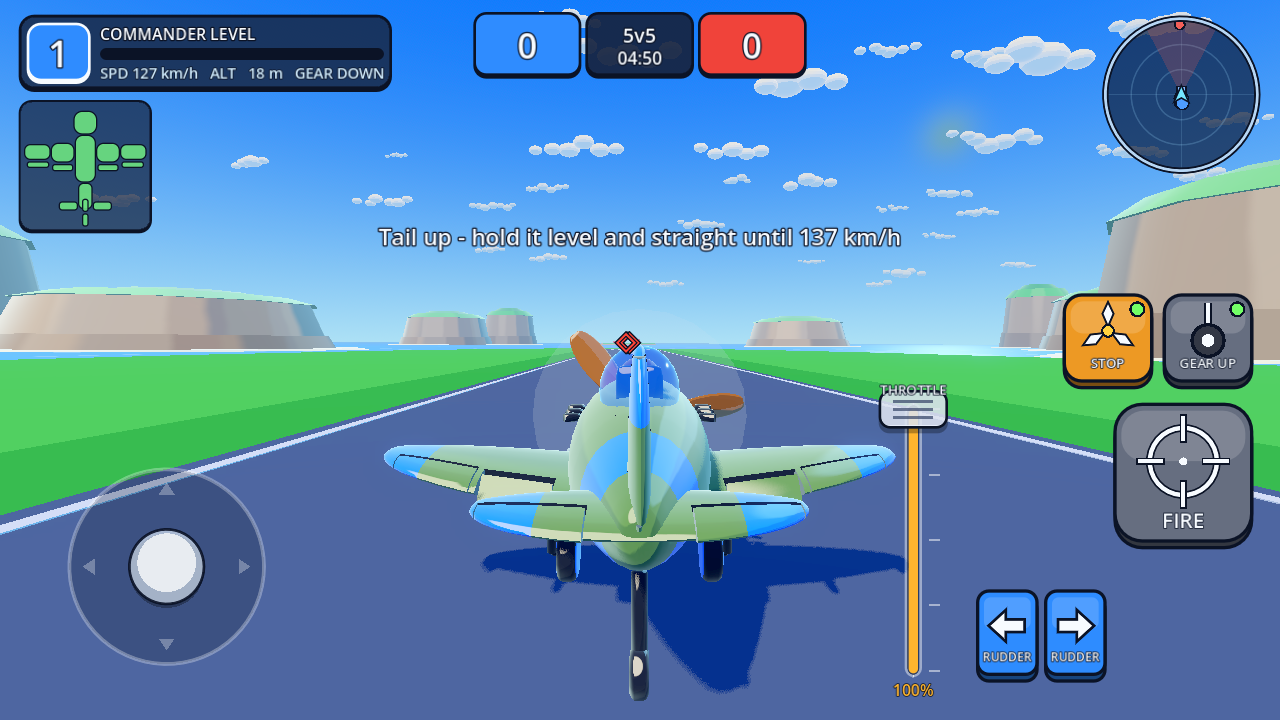
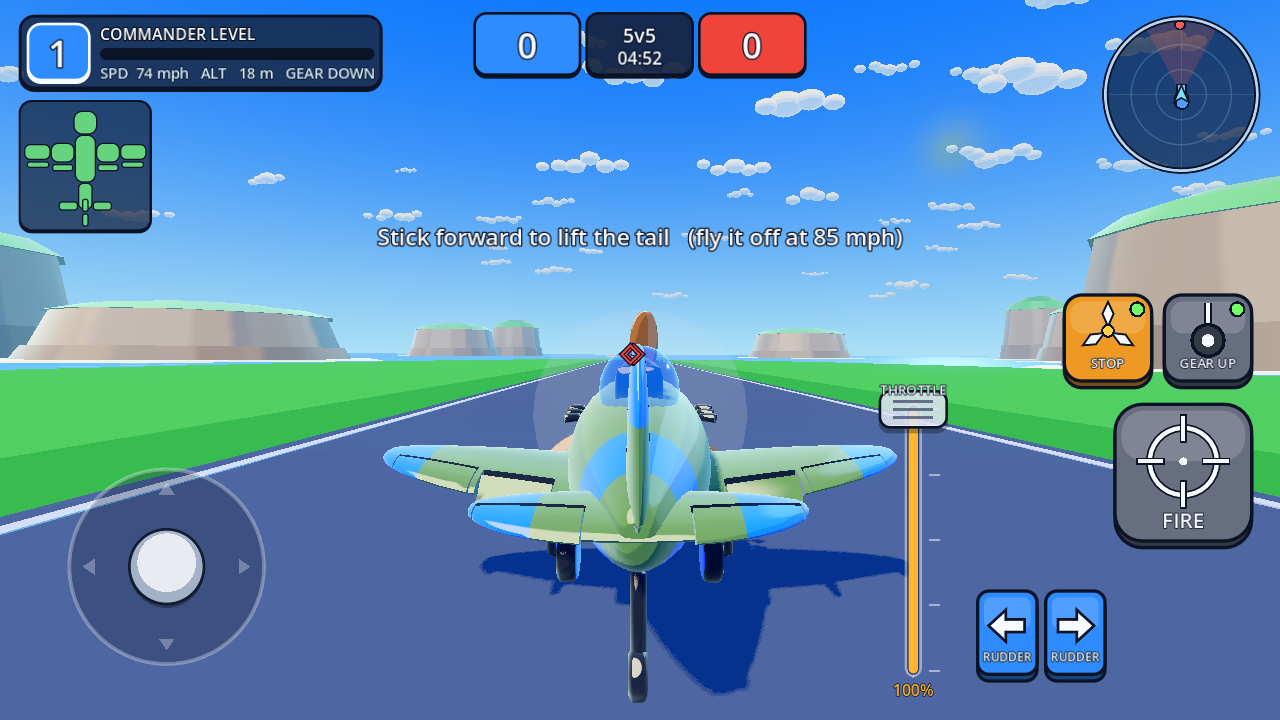
dogfight: real-world speeds, shown in mph (0.12.0)
The planes were slower than the real ones mainly because their engines'
full-power heights had been set far below the real ones. Each engine now
has its real critical altitude (Hurricane 21,000 ft, Spitfire 20,000 ft,
Mustang 25,000 ft) and gives a falling share of its sea-level power on the
way up to it, as the real supercharged engines did. Exhaust thrust is
modelled. Each plane's drag and altitude power are fitted to its published
sea-level and best-height speeds: 283/340, 332/371 and 375/437 mph.

Every speed shown to the player is in miles an hour; the HUD adds the true
airspeed once it differs from the indicated. The hangar shows the top
speed at the plane's best height and at sea level. Ceiling raised to 9 km.

Claude-Session: https://claude.ai/code/session_01NyUonrH8QpL4SMzGCEjSTu

diff --git a/dogfight/README.md b/dogfight/README.md
@@ -255,36 +255,57 @@ HUD (CanvasLayer)                         hud.gd
   - *Ground effect*: within 10 m of an airfield, more lift and less drag.
   - *The air* is the standard atmosphere (`FlightDynamics.altitude`):
     it cools 6.5 degrees per kilometre and thins as it does, to 82% of its
-    sea-level density at 2,000 m and 64% at 4,500 m. Every force the air
+    sea-level density at 2,000 m and 54% at 6,000 m. Every force the air
     makes goes with that density. So the higher a plane is, the faster it
-    has to go to stay up (a Spitfire stalls at 37 m/s true at sea level and
-    46 at 4,000 m), the wider it turns and the lazier its controls are at
+    has to go to stay up (a Spitfire stalls at 83 mph true at sea level and
+    113 at 6,000 m), the wider it turns and the lazier its controls are at
     the same true speed, and the less drag it has. The airspeed indicator
     (the HUD's speed, `PlaneActor.indicated_speed`) shows what the wings
     feel, not how fast the ground goes by, so the stall and take-off numbers
-    on it are the same at any height.
-  - *The engine breathes that air too.* A supercharger holds full power up
-    to the engine's critical altitude (Hurricane 3,000 m, Spitfire 3,600,
-    Mustang 4,200); above it power falls with the air, a little faster than
-    the density does. Until then thinner air only means less drag, so each
-    plane is fastest near its critical altitude and slower again above it.
+    on it are the same at any height. Once the two differ the HUD gives the
+    true speed beside it; that is the figure the books quote. Speeds are
+    shown in miles an hour, as on these aeroplanes' own instruments.
+  - *The engine breathes that air too.* A supercharger holds the boost up
+    to the engine's critical altitude: 6,400 m (21,000 ft) for the
+    Hurricane's Merlin XX, 6,100 m (20,000 ft) for the Spitfire's Merlin 45,
+    7,600 m (25,000 ft) for the Mustang's Packard Merlin. Holding it costs
+    power, more the higher it has to be held, so the engine gives a
+    steadily smaller share on the way up (`altitude_power`: 90%, 76% and
+    74% of sea-level power at those heights, about what the real engines
+    gave). Thin air takes drag away faster than that takes power away, so
+    each plane keeps getting faster up to its critical altitude. Above it
+    the boost itself falls with the air and the plane gets slower again.
     The propeller also has less air to bite, so static thrust falls a
     little with height. Engines with a two-stage supercharger (Merlin 61,
-    Griffon 65) hold their power 1,000 to 1,500 m higher.
+    Griffon 65) hold on 1,000 to 1,500 m higher still.
+  - *Exhaust thrust.* The backward-pointing exhaust stacks are a small jet
+    (`EXHAUST_THRUST`): nothing much at take-off, about a tenth of the push
+    at top speed.
   - *Compressibility.* Sound is slower in the cold (340 m/s at the sea,
-    323 at 4,500 m). Past Mach 0.68, which is a steep dive from height and
+    310 at 7,600 m). Past Mach 0.68, which is a steep dive from height and
     nothing else, drag climbs steeply and the controls lose their grip.
 
   What comes out, measured from the model rather than typed in
-  (`PlaneData._finish_stats`, shown in the hangar):
+  (`PlaneData._finish_stats`, shown in the hangar), beside the real
+  aeroplane's published figures:
 
-  | | Top speed at sea level | at 3,000 m | at 4,000 m | Stalls at (indicated) | Climb | Weight | Power |
-  | --- | --- | --- | --- | --- | --- | --- | --- |
-  | Hurricane II | 119 m/s (430 km/h) | 131 (470) | 130 (465), 89% power | 39 m/s (140 km/h) | 12 m/s | 3,260 kg | 1,280 hp |
-  | Spitfire V | 135 m/s (485 km/h) | 149 (535) | 152 (545), 95% power | 38 m/s (135 km/h) | 16 m/s | 2,960 kg | 1,470 hp |
-  | Mustang | 152 m/s (545 km/h) | 167 (600) | 173 (620), full power | 47 m/s (170 km/h) | 13 m/s | 4,130 kg | 1,720 hp |
+  | | Top speed at sea level | Top speed at best height | Climb | Stalls at (indicated) | Weight | Power |
+  | --- | --- | --- | --- | --- | --- | --- |
+  | Hurricane II | 283 mph (real: about 283) | 340 mph at 6,400 m (real: 340 at 21,000 ft) | 13.9 m/s (real: 14.1) | 86 mph | 3,260 kg | 1,280 hp |
+  | Spitfire V | 332 mph (real: about 332 on emergency boost, 298 on normal) | 371 mph at 6,100 m (real: 367 to 375 at 20,000 ft) | 19.1 m/s (real: 14.5 on normal boost) | 83 mph | 2,960 kg | 1,470 hp |
+  | Mustang (P-51D) | 375 mph (real: 375 at war emergency power) | 437 mph at 7,600 m (real: 437 at 25,000 ft) | 16.0 m/s (real: 16.3 to 17.6) | 104 mph | 4,130 kg | 1,720 hp |
 
-  A Spitfire rolls at about 100 degrees a second, loops from top speed in 17
+  Each plane's drag was set so the model does the real sea-level speed on
+  the real power, and its `altitude_power` so it does the real speed at the
+  real height; the drag coefficients that took (0.0237, 0.0182, 0.0153) are
+  close to the ones measured for the real aeroplanes. The climb rates were
+  not fitted: they are what the model then gives. The Spitfire and Hurricane
+  sea-level speeds come from flight-simulator reference tables rather than
+  from an original trial report, so treat those two as good to a few mph.
+  Engines here always give their emergency rating at full throttle, with no
+  time limit and no overheating.
+
+  A Spitfire rolls at about 100 degrees a second, loops from top speed in 19
   seconds going 500 m up and over, glides about 1 in 9 with a dead engine and
   a windmilling propeller, and holds a 60-degree bank at 2 g, turning at
   g x tan(bank) / speed like anything else.
@@ -335,8 +356,10 @@ HUD (CanvasLayer)                         hud.gd
   cannot be hurt until it leaves the ground (or 25 s pass).
 - **Ground handling** (`PlaneActor`, `Airfield`). Each team has an island
   airfield with a 900 m runway pointing at the middle of the arena, 2.3 km
-  from it. The battle area is 3.2 km in radius with a 4.5 km ceiling. Everyone
-  starts parked on it: engine off, wheels down, throttle closed.
+  from it. The battle area is 3.2 km in radius with a 9 km ceiling (no one gets
+  near it in a five-minute match: it is ten minutes' climb to where these
+  planes are fastest). Everyone starts parked on their own runway: engine
+  off, wheels down, throttle closed.
   - *Starting up.* The starter takes about two seconds before the engine
     answers the throttle. A dead engine will not start.
   - *On the ground it is the same rigid body*, standing on what touches
